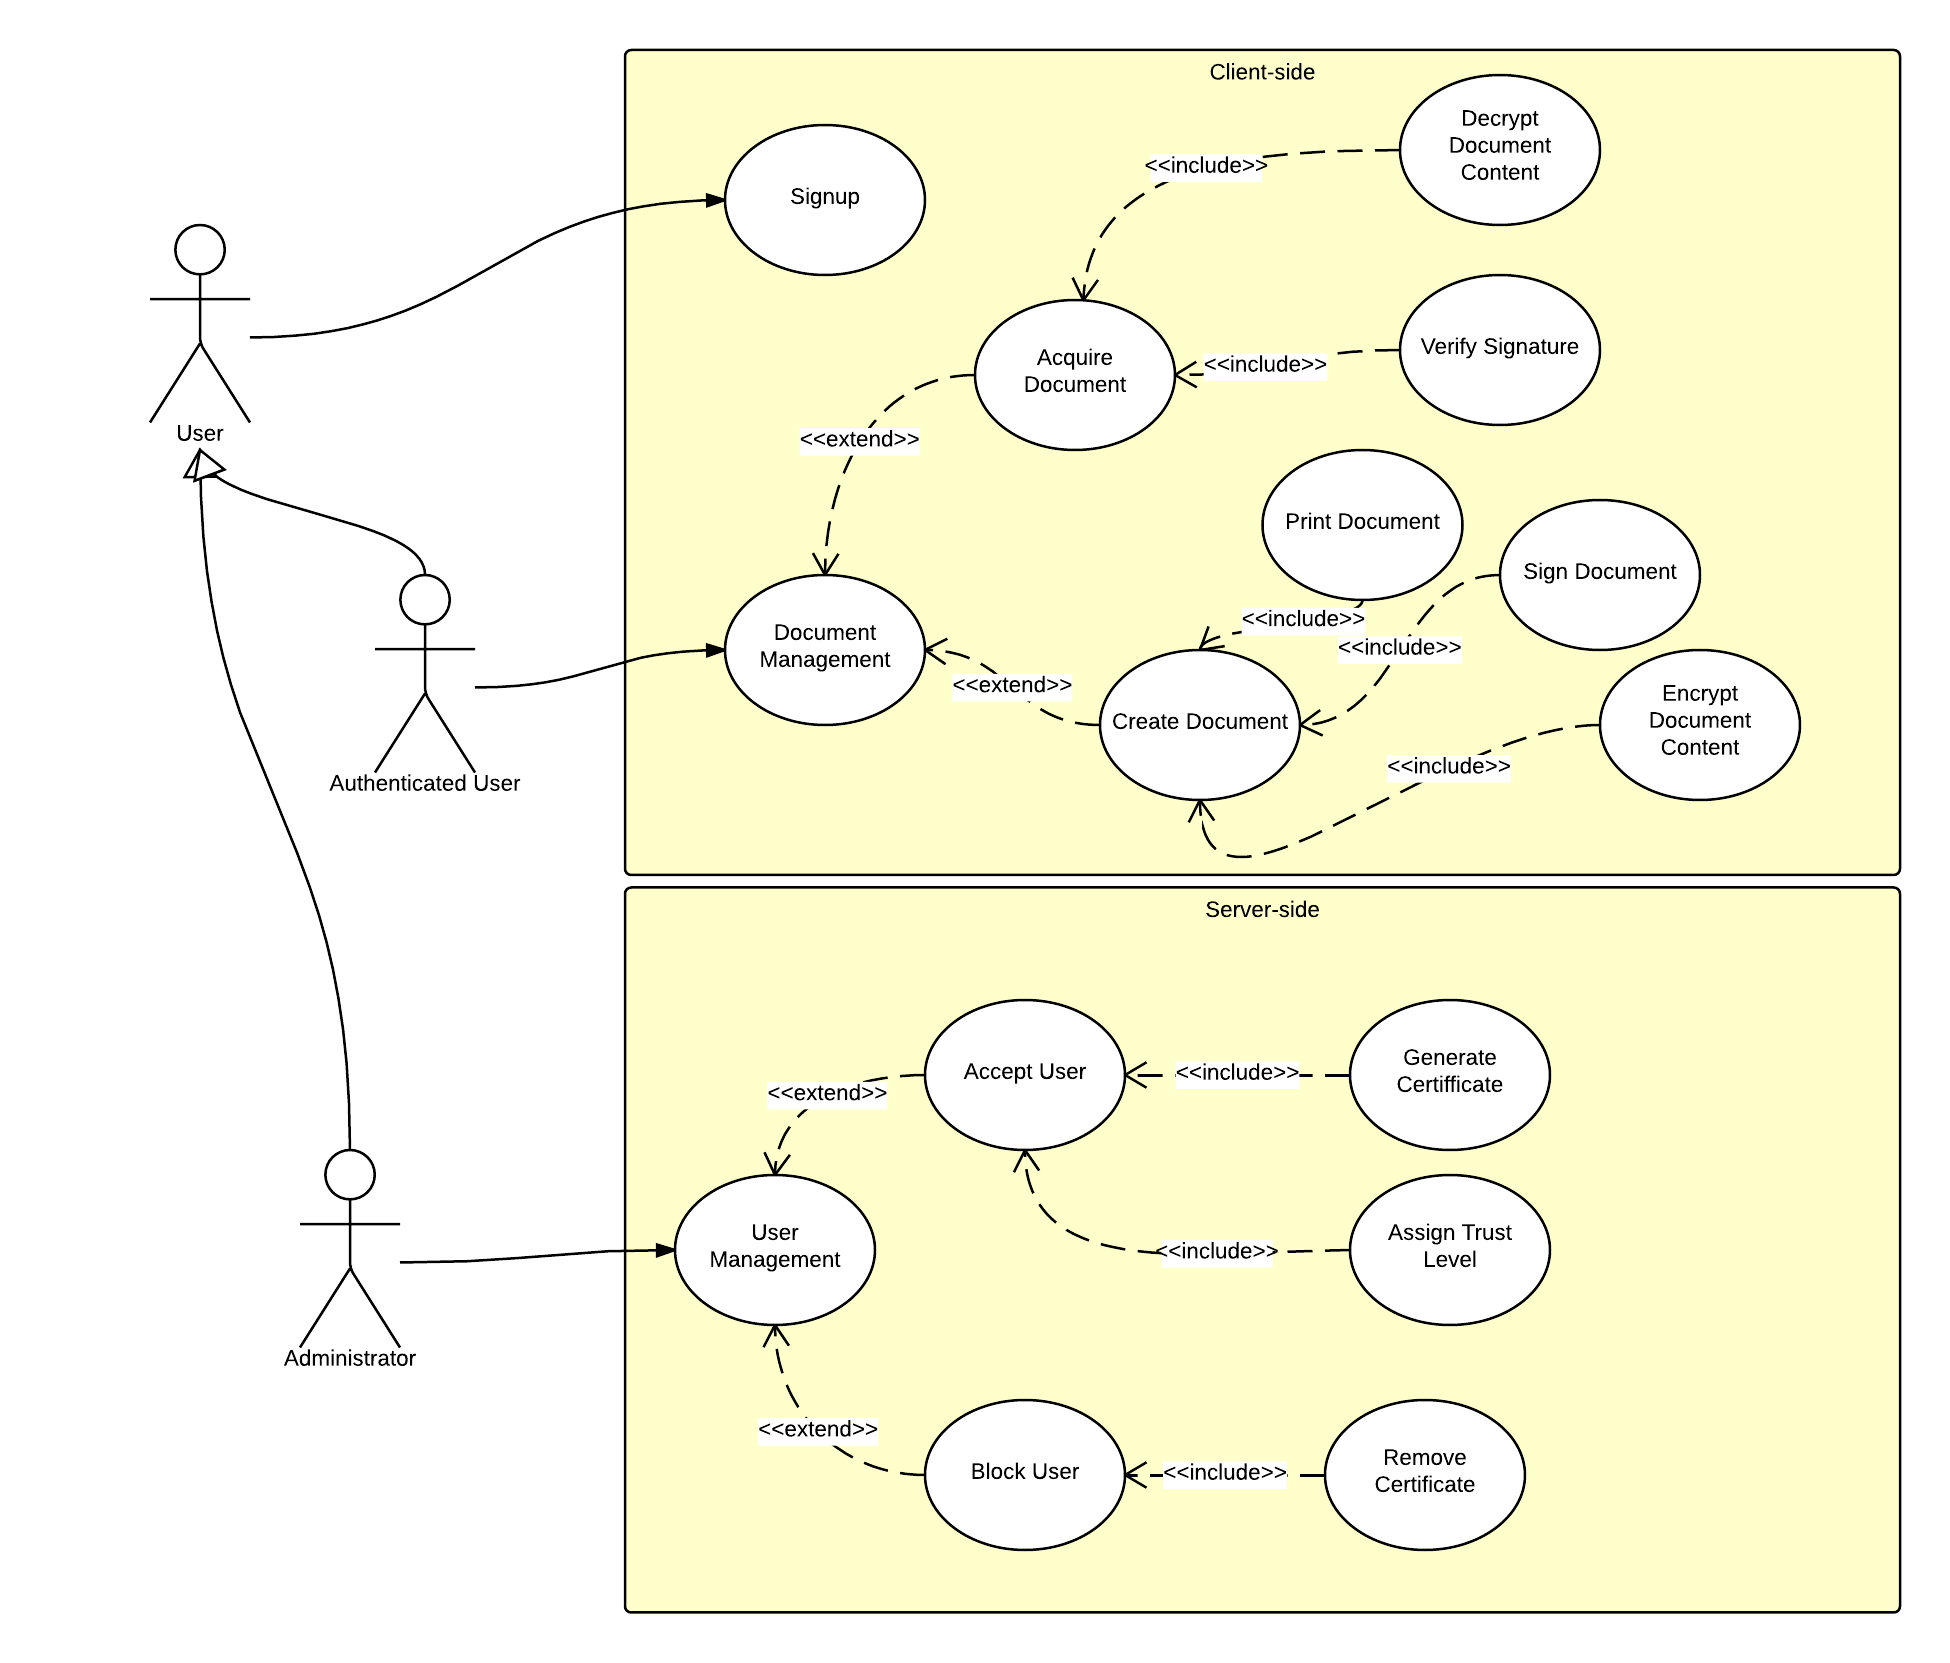
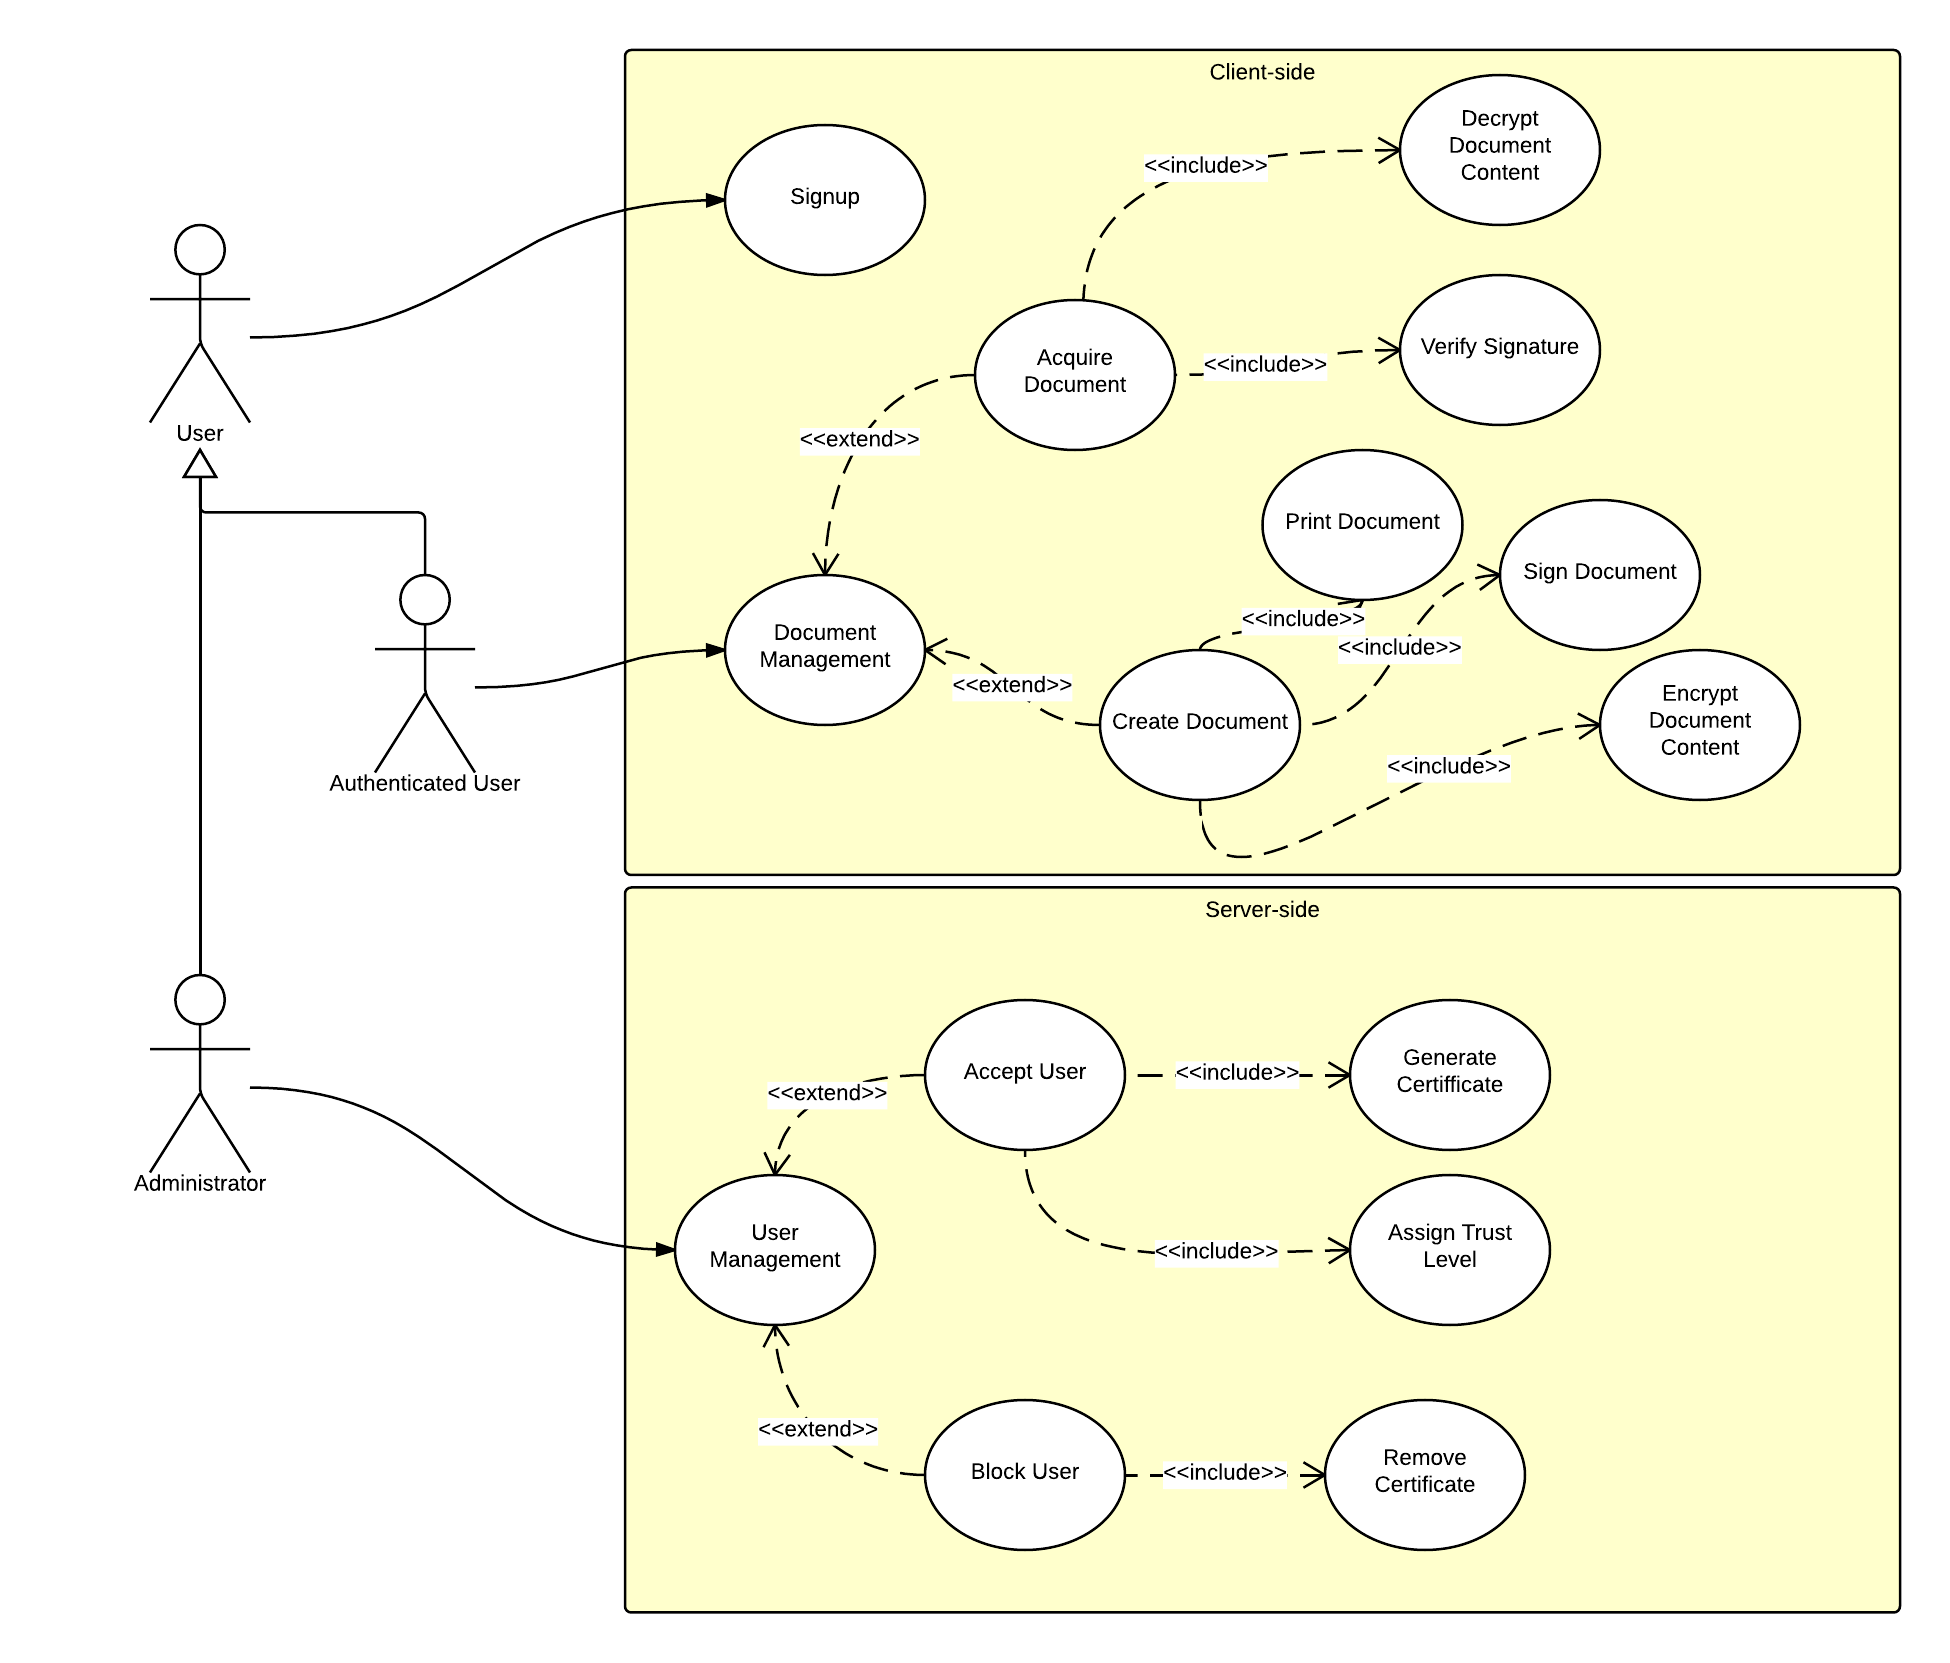
aggiunte immagini corrette relazione

diff --git a/Relazione/Capitolo_1.tex b/Relazione/Capitolo_1.tex
@@ -12,6 +12,7 @@ La sfida più importante è rappresentata dal fatto che le informazioni da prote
 Tuttavia bisogna garantire anche che il documento in questione non venga contraffatto durante il percorso: se non ci fosse nessuna garanzia su questo, chiunque potrebbe cambiare i QR-Code relativi a certe informazioni (per esempio con un attacco Man~In~The~Middle) e far credere che tutto sia rimasto inalterato ai reali destinatari.
 
 Per lo sviluppo di questo progetto si è deciso di contestualizzare il tutto ad un ambiente di tipo amministrativo dove lo scambio di documenti è molto frequente.
+%specificare meglio%
 La contestualizzazione del progetto è molto importante perché da questo dipendono le modalità di utilizzo del servizio stesso, e quindi, di conseguenza l'architettura generale del sistema che cambia in modo considerevole a seconda dei casi. Nei prossimi capitoli sarà spiegato meglio questo punto.  
 
 Riassumendo quindi, per quanto riguarda le funzionalità principali, il sistema dovrebbe permettere di:

diff --git a/Relazione/Capitolo_2.tex b/Relazione/Capitolo_2.tex
@@ -1,14 +1,20 @@
 \def \ti{\textit}
 \def \bf{\textbf}
 
-\chapter{Scelte Progettuali}
+\chapter{Progettazione}
 	\label{cap:progettazione}
 	
-\section{Diagrammi UML}
-	\label{sec:uml}
+    In questo capitolo verranno analizzate in dettaglio le scelte progettuali che hanno permesso la realizzazione del sistema software, considerando le limitazioni riscontrate nell'architettura del sistema stesso. Dopodiché si analizzerà, attraverso la rappresentazione dei diagrammi \textbf{UML}, la definizione delle fasi di sviluppo, ossia la progettazione delle funzionalità correnti dell'applicazione.
 
 \section{Architettura}
 	\label{sec:architettura}
+	%client-server
+	%cosa fa client
+	%cosa fa server
+	
+\section{Diagrammi UML}
+	\label{sec:uml}
+	%immagini diagrammi
 
 \section{Elaborazione dei documenti}
 	\label{sec:documenti}
